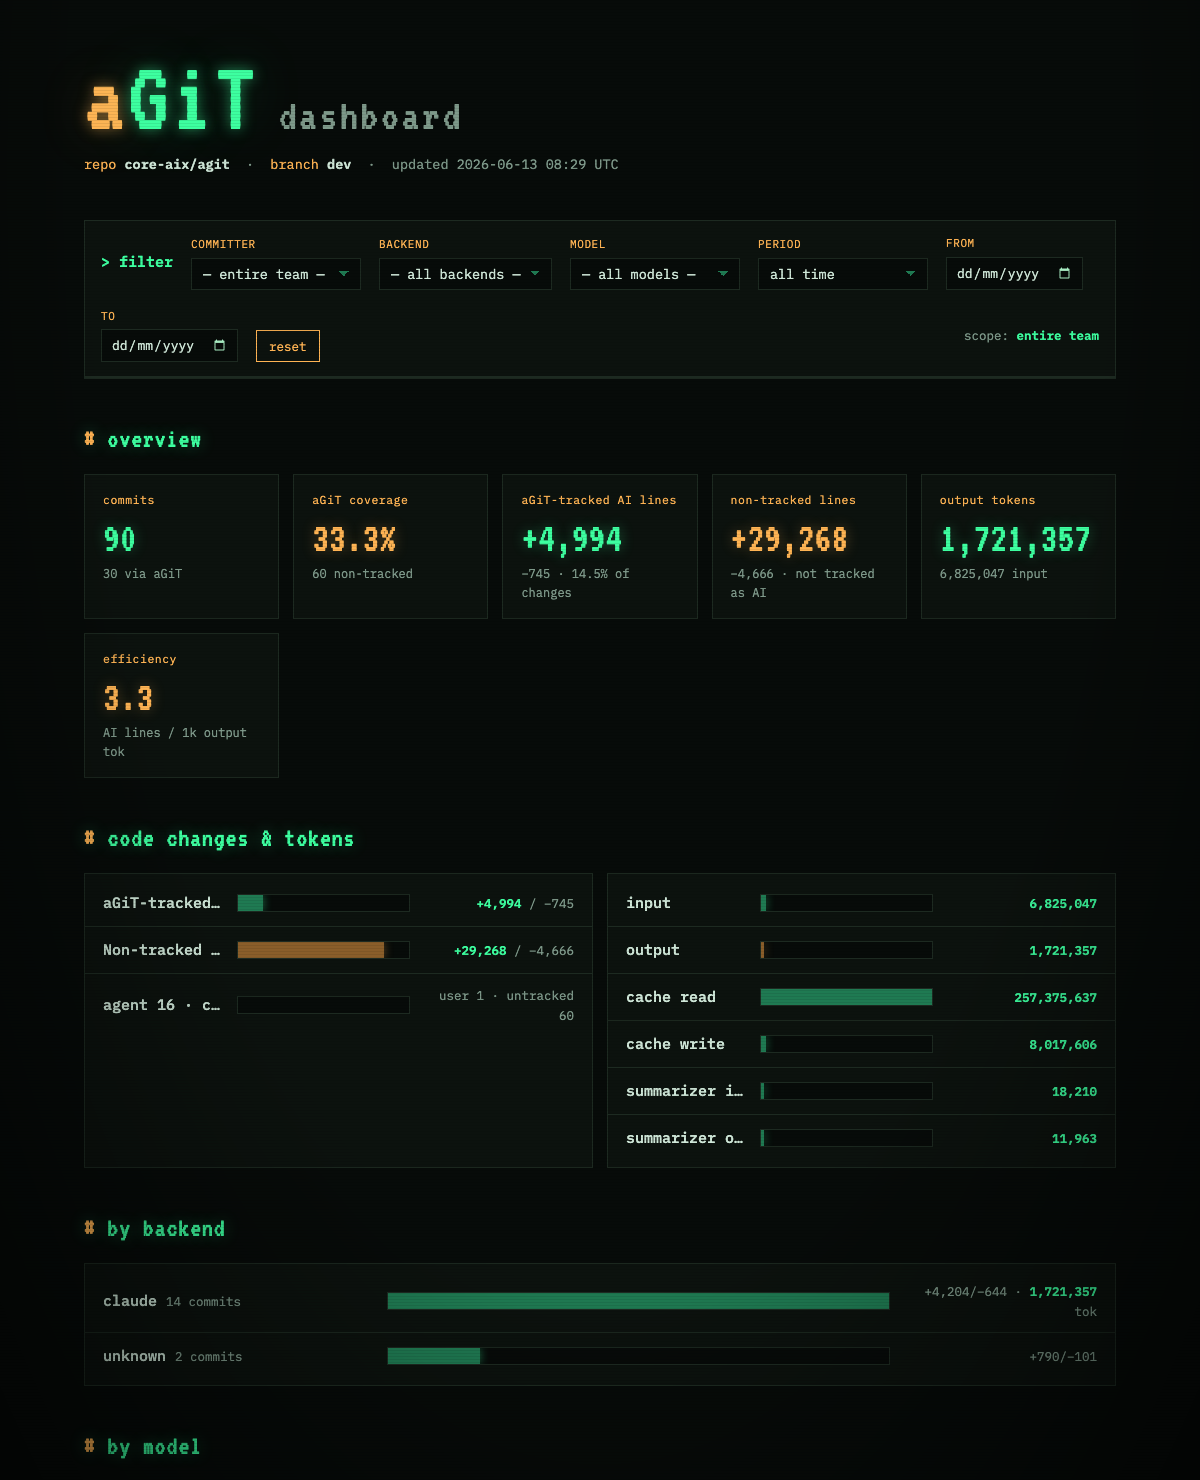
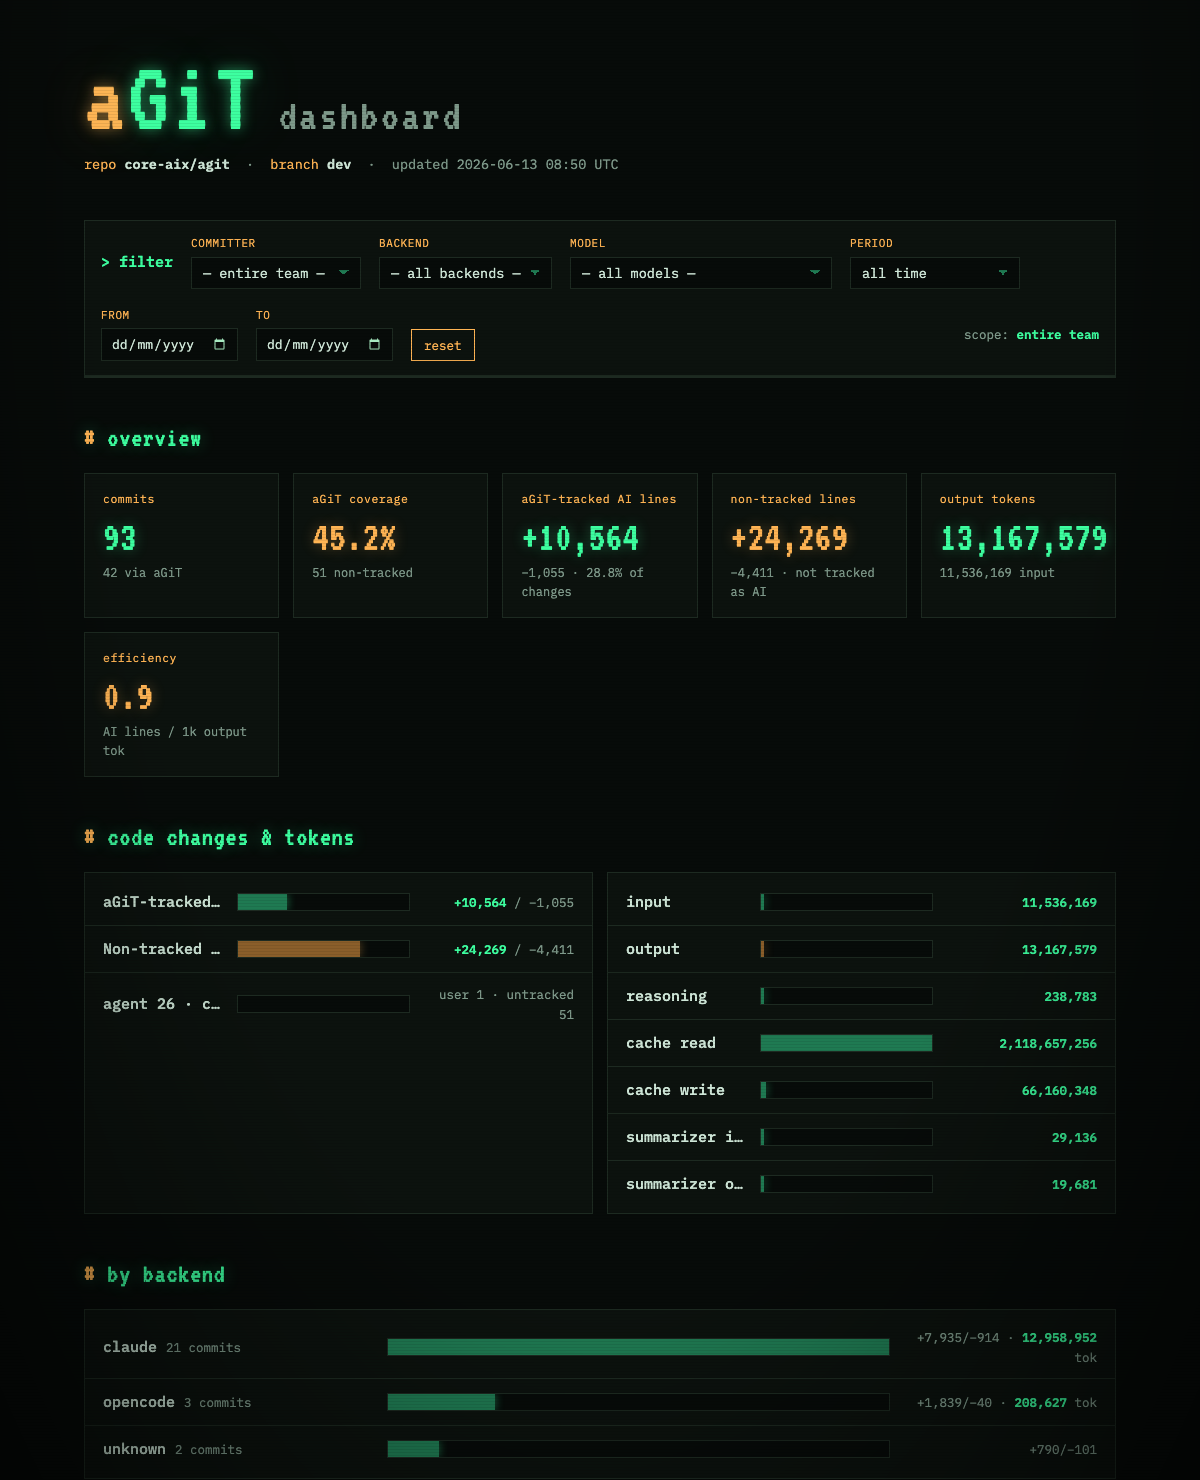
<aGiT> Implemented squashed-commit expansion for the aGiT metrics... Implemented squashed-commit expansion for the aGiT metrics dashboard (issue #54 follow-up), plus resolved a merge conflict in `pyproject.toml`.
## Merge conflict
Resolved `pyproject.toml` by keeping dev branch's distribution
name/version (`agit-cli` / `0.0.0`) alongside the enriched description
(git/gh requirements note). Left committing to aGiT per instructions —
did not run git directly. Note: this reverts the `agit-cli`→`agit`
rename from the prior session, since dev still uses `agit-cli`.

## Squashed-commit handling (main work)
**Problem:** When multiple aGiT commits are squashed (or PR-merged) into
 one, git concatenates each original's `# aGiT Metadata` block into the
squash message. Previously the dashboard treated any commit with >1
metadata block as opaque "non-tracked," dropping all constituent
tokens/model usage. On the test repo this had silently lost ~8.8M output
 tokens (1.7M→13.2M after the fix).

**Solution — parse constituents back out:**
- `collect.py`: added `CommitStat.constituents`, with
`_parse_constituents`/`_build_squash` splitting the concatenated blocks.
 Git flattens metadata even across *multiple rounds* of squashing, so
this recovers all levels. `group_by` is now constituent-aware:
`by_backend`/`by_model` count each original commit separately (with its
own tokens/model/backend), so usage is attributed correctly rather than
lumped.
- **Classification change:** a squash containing any agent work is now
classified `agent` (tracked AI) instead of `untracked`. Its single
combined diff counts entirely as AI lines; backend/model in breakdowns
come from the dominant constituent.
[…]

diff --git a/tests/test_dashboard.py b/tests/test_dashboard.py
@@ -133,25 +133,37 @@ def test_dashboard_splits_lines_into_tracked_ai_and_nontracked(tmp_path):
     assert nt_ins == 14
 
 
-def test_squash_or_pr_merge_with_many_metadata_blocks_is_non_tracked(tmp_path):
-    # A squash / PR-merge message concatenates several commits' metadata blocks.
-    # Its first block here is an agent commit, which would otherwise credit the
-    # whole squashed diff as aGiT-tracked AI. More than one metadata block ⇒
-    # aggregate of unknown provenance ⇒ non-tracked, not AI.
+def test_squash_parses_constituents_and_counts_their_tokens(tmp_path):
+    # A squash / PR-merge message concatenates several original commits' metadata
+    # blocks. The dashboard parses each one back out so their tokens and
+    # model/backend usage are counted — they are not lost in the aggregate.
     repo = GitRepo.init(tmp_path)
     _write_lines(repo, "squashed.txt", 500)
     message = (
         "Stability improvements (#9)\n\n"
-        "# aGiT Metadata\ncommit_type: agent\nbackend: claude\n\n"
+        "* did agent work\n\n"
+        "# aGiT Metadata\ncommit_type: agent\nbackend: claude\nmodel: claude-opus-4-8\n"
+        "tokens_since_last_commit_output: 1000\ntokens_since_last_commit_input: 500\n\n"
+        "* my own edit\n\n"
         "# aGiT Metadata\ncommit_type: user\nagit_session_id: s1\n"
     )
     repo.commit(message)
 
     dash = build_dashboard(repo)
     squashed = next(s for s in dash.stats if s.subject.startswith("Stability"))
-    assert squashed.kind == "untracked"
-    assert dash.ai_lines == (0, 0)  # none of the 500 lines counted as AI
-    assert dash.nontracked_lines[0] == 500
+    # Two original commits recovered from the concatenated blocks.
+    assert [c.kind for c in squashed.constituents] == ["agent", "user"]
+    # The squash is tracked AI work (it contains agent work) and its single
+    # combined diff counts as AI; the agent original's tokens are counted.
+    assert squashed.kind == "agent"
+    assert squashed.tokens["output"] == 1000
+    assert dash.token_totals["output"] == 1000
+    assert dash.ai_lines[0] == 500
+    assert dash.nontracked_lines == (0, 0)
+    # Usage is attributed to the original's model/backend, not lost.
+    assert dash.by_model["claude-opus-4-8"]["output_tokens"] == 1000
+    assert dash.by_model["claude-opus-4-8"]["commits"] == 1
+    assert dash.by_backend["claude"]["commits"] == 1
 
 
 def test_dashboard_sums_tokens_and_efficiency(tmp_path):
@@ -435,6 +447,28 @@ def test_render_html_is_self_contained_with_embedded_data(tmp_path):
     assert sample["ts"] > 0
     assert sample["message"]
     assert "tokens" in sample
+
+
+def test_dashboard_data_serializes_squash_constituents_for_expansion(tmp_path):
+    repo = GitRepo.init(tmp_path)
+    _write_lines(repo, "s.txt", 30)
+    repo.commit(
+        "Squashed PR (#12)\n\n"
+        "* first turn\n\n"
+        "# aGiT Metadata\ncommit_type: agent\nbackend: claude\nmodel: claude-opus-4-8\n"
+        "tokens_since_last_commit_output: 200\n\n"
+        "* second turn\n\n"
+        "# aGiT Metadata\ncommit_type: agent\nbackend: opencode\nmodel: qwen\n"
+        "tokens_since_last_commit_output: 50\n"
+    )
+
+    data = dashboard_data(build_dashboard(repo))
+    squash = next(c for c in data["commits"] if c["subject"].startswith("Squashed"))
+    # The original commits ride along so the log entry can expand into them.
+    assert len(squash["parts"]) == 2
+    assert [p["model"] for p in squash["parts"]] == ["claude-opus-4-8", "qwen"]
+    assert squash["parts"][0]["tokens"]["output"] == 200
+    assert squash["parts"][0]["message"]  # full text for the nested view
 
 
 def test_dashboard_data_links_commits_to_github_when_remote_present(tmp_path):

diff --git a/agit/metrics/web.py b/agit/metrics/web.py
@@ -249,11 +249,26 @@ h2.section::before{content:"# ";color:var(--amber)}
 .entry .tok{font-size:11px;border:1px solid var(--line);padding:0 5px;color:var(--fg-dim)}
 .entry .tok.out{color:var(--phosphor);border-color:var(--phosphor-dim)}
 .entry .tok.dim{opacity:.7}
+.entry .squash{font-size:10.5px;color:var(--ops);border:1px solid var(--ops);padding:1px 6px;letter-spacing:.4px}
 .entry .detail{flex-basis:100%;width:100%;margin:8px 0 4px;border-left:2px solid var(--phosphor-dim);padding-left:14px;cursor:default}
 .entry .detail .dhead{color:var(--amber);font-size:12.5px;margin-bottom:4px}
 .entry .detail .dmeta{color:var(--ops);font-size:12px;margin-bottom:6px}
 .entry .detail .dmsg{white-space:pre-wrap;word-break:break-word;font-size:12.5px;color:var(--fg-dim);
   background:var(--ink);border:1px solid var(--line);padding:10px 12px;max-height:420px;overflow:auto}
+.entry .detail .phead{color:var(--ops);font-size:12px;margin:12px 0 6px}
+.part{border:1px solid var(--line);margin:5px 0;background:var(--panel-2)}
+.part>summary{cursor:pointer;padding:6px 10px;font-size:12.5px;color:var(--fg);list-style:none}
+.part>summary::-webkit-details-marker{display:none}
+.part>summary::before{content:"▸ ";color:var(--ops)}
+.part[open]>summary::before{content:"▾ "}
+.part>summary:hover{background:rgba(103,184,214,.06)}
+.part .pkind{font-size:10px;letter-spacing:.4px;padding:0 5px;border:1px solid var(--line);color:var(--fg-dim);margin-right:6px}
+.part .pkind.ai{color:var(--phosphor);border-color:var(--phosphor-dim)}
+.part .pkind.user{color:var(--amber);border-color:var(--amber-dim)}
+.part .pmeta{color:var(--fg-dim)}
+.part .dmsg{margin:0 10px 8px}
+.part .phead{padding:0 10px}
+.part .part{margin:5px 10px}
 .more{padding:12px 0;color:var(--fg-dim);font-size:12.5px}
 
 footer{margin-top:46px;padding-top:22px;border-top:1px dashed var(--line);color:var(--fg-dim);font-size:12.5px;

diff --git a/README.md b/README.md
@@ -280,6 +280,7 @@ scripts/demo.sh --model haiku --dir /tmp/agit-demo
 - **Coverage**: how many commits are aGiT-tracked (agent commits, backend-made commits covered by an aGiT cover commit, agent-resolved merges, user commits, and aGiT's own integration merges) versus non-tracked.
 - **Code changes**: lines added/removed split two ways — **aGiT-tracked AI** (agent commits + the backend-made commits an aGiT cover commit accounts for + agent-resolved merges) and **non-tracked** (everything else: user commits, plain commits with no aGiT metadata, and squash/PR-merge commits whose message concatenates several metadata blocks and so can't be cleanly attributed). There is deliberately no "human" category — even a user-made commit can contain lines an agent produced off the record, so the only honest claim is whether aGiT tracked the lines as AI. Cover commits are merges and contribute no line counts of their own, so a turn's lines are never double-counted.
 - **aGiT-ops**: the integration merge commits aGiT makes itself (e.g. bringing base into a session branch) are shown as their own class, not lumped into non-tracked. They carry no diff, so they add no lines.
+- **Squashed commits**: when several aGiT commits are squashed into one (a squash- or PR-merge concatenates their metadata blocks — git flattens this even across multiple rounds of squashing), the dashboard parses every original back out, so their tokens and per-model/backend usage are still counted instead of lost in the aggregate. In the web commit log such a commit is tagged `⧉ N squashed` and expands on click into its original commits, each itself expandable to its full message.
 - **Tokens**: totals per category (input, output, reasoning, cache read/write, sub-agents, summarizer) and an efficiency ratio — AI-changed lines per 1k output tokens.
 - **Breakdowns** by backend, by model (a cover commit's bucket includes the lines of the backend-made commits it covers), and by committer. Committer identities are merged to **GitHub IDs** via the `gh` CLI when available (every commit GitHub knows is keyed by its real login); without `gh` it falls back to merging by email and no-reply login. Each committer's lines are split into the aGiT-tracked AI they drove versus non-tracked.
 - **Possible loops**: runs of three or more consecutive turns with near-identical prompts (or the same prompt repeated within one turn's trace), with the output tokens they consumed — a sign the conversation is going in circles.